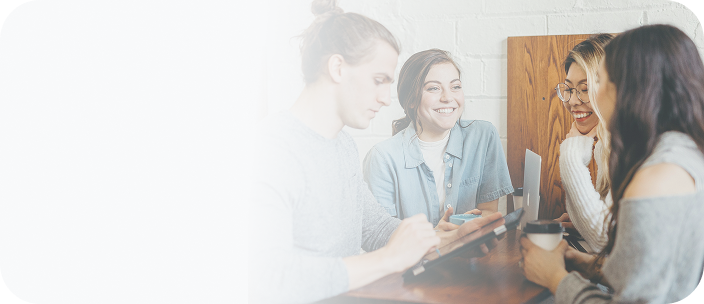
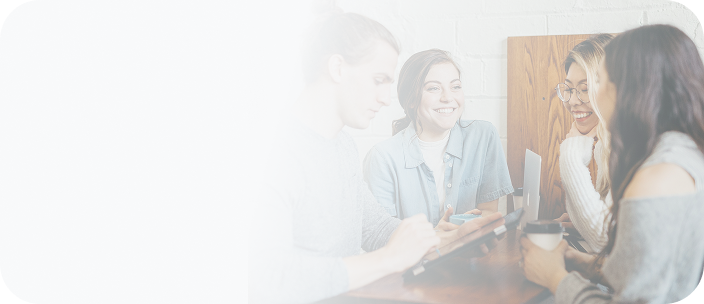
add some animation

Changed region(s): [[0.4375, 0.0, 1.0, 1.0], [0.5, 0.7697, 0.5625, 0.8289]]

diff --git a/lib/src/features/views/pages/home_page.dart b/lib/src/features/views/pages/home_page.dart
@@ -1,6 +1,7 @@
 import 'package:auto_size_text/auto_size_text.dart';
 import 'package:cached_network_image/cached_network_image.dart';
 import 'package:flutter/material.dart';
+import 'package:flutter_animate/flutter_animate.dart';
 import 'package:flutter_dotenv/flutter_dotenv.dart';
 import 'package:get/get.dart';
 import 'package:humic_internify/src/features/viewmodels/bottombar_controller.dart';
@@ -9,6 +10,7 @@ import 'package:humic_internify/src/features/views/pages/feedback_page.dart';
 import 'package:humic_internify/src/shared/components/humic_loading.dart';
 import 'package:humic_internify/src/shared/styles/custom_color.dart';
 import 'package:humic_internify/src/shared/widgets/humic_refresher.dart';
+import 'package:shimmer_animation/shimmer_animation.dart';
 
 class HomePage extends StatelessWidget {
   const HomePage({super.key});
@@ -25,9 +27,19 @@ class HomePage extends StatelessWidget {
             () => Column(
               mainAxisAlignment: MainAxisAlignment.start,
               children: [
+                const SizedBox(height: 10),
+
                 Stack(
                   children: [
-                    Image.asset("assets/images/life-at-humic.png"),
+                    Shimmer(
+                      duration: const Duration(seconds: 4),
+                      interval: Duration.zero,
+                      color: Colors.white,
+                      colorOpacity: 0.5,
+                      enabled: true,
+                      direction: const ShimmerDirection.fromLTRB(),
+                      child: Image.asset("assets/images/life-at-humic.png"),
+                    ),
                     Positioned.fill(
                       child: Container(
                         margin: const EdgeInsets.only(right: 50),
@@ -62,11 +74,30 @@ class HomePage extends StatelessWidget {
                     ),
                   ],
                 ),
-                const SizedBox(height: 20),
+                const SizedBox(height: 30),
                 Row(
                   mainAxisAlignment: MainAxisAlignment.spaceBetween,
                   children: [
-                    Image.asset("assets/images/mereka-humic.png", width: 120),
+                    Image.asset(
+                          "assets/images/internify-dev.png",
+                          width: MediaQuery.of(context).size.width / 2 - 50,
+                        )
+                        .animate(
+                          onPlay:
+                              (controller) => controller.repeat(reverse: true),
+                        )
+                        .moveY(
+                          begin: -1,
+                          end: 2,
+                          duration: 4000.ms,
+                          curve: Curves.easeInOut,
+                        )
+                        .rotate(
+                          begin: -0.002,
+                          end: 0.005,
+                          duration: 4000.ms,
+                          curve: Curves.easeInOut,
+                        ),
                     const SizedBox(width: 15),
                     const Expanded(
                       child: Column(
@@ -131,37 +162,44 @@ class HomePage extends StatelessWidget {
                       for (var group in posisitionController.groupedUniqueJobs)
                         Row(
                           mainAxisAlignment: MainAxisAlignment.center,
-                          children: List.generate(
-                            posisitionController.maxPerRow,
-                            (index) {
-                              if (index < group.length) {
-                                final itemIndex = group[index];
-                                final item =
-                                    posisitionController.data[itemIndex];
+                          children: List.generate(posisitionController.maxPerRow, (
+                            index,
+                          ) {
+                            if (index < group.length) {
+                              final itemIndex = group[index];
+                              final item = posisitionController.data[itemIndex];
 
-                                return Expanded(
-                                  child: GestureDetector(
-                                    onTap: () {
-                                      posisitionController
-                                          .clickToFilterPosition(item.jobTitle);
-                                      bottombarController.currentIndex.value =
-                                          1;
-                                      bottombarController.fetchIcon(1);
-                                    },
-                                    child: Container(
-                                      clipBehavior: Clip.antiAlias,
-                                      margin: const EdgeInsets.symmetric(
-                                        horizontal: 15,
-                                        vertical: 15,
-                                      ),
-                                      height: 150,
-                                      decoration: BoxDecoration(
-                                        borderRadius: BorderRadius.circular(15),
-                                      ),
-                                      child: Stack(
-                                        fit: StackFit.expand,
-                                        children: [
-                                          CachedNetworkImage(
+                              return Expanded(
+                                child: GestureDetector(
+                                  onTap: () {
+                                    posisitionController.clickToFilterPosition(
+                                      item.jobTitle,
+                                    );
+                                    bottombarController.currentIndex.value = 1;
+                                    bottombarController.fetchIcon(1);
+                                  },
+                                  child: Container(
+                                    clipBehavior: Clip.antiAlias,
+                                    margin: const EdgeInsets.symmetric(
+                                      horizontal: 15,
+                                      vertical: 15,
+                                    ),
+                                    height: 150,
+                                    decoration: BoxDecoration(
+                                      borderRadius: BorderRadius.circular(15),
+                                    ),
+                                    child: Stack(
+                                      fit: StackFit.expand,
+                                      children: [
+                                        Shimmer(
+                                          duration: const Duration(seconds: 4),
+                                          interval: Duration.zero,
+                                          color: Colors.white,
+                                          colorOpacity: 0.6,
+                                          enabled: true,
+                                          direction:
+                                              const ShimmerDirection.fromLTRB(),
+                                          child: CachedNetworkImage(
                                             imageUrl:
                                                 '${dotenv.env['API_BASE_URL']}${item.image}',
                                             fit: BoxFit.cover,
@@ -180,47 +218,47 @@ class HomePage extends StatelessWidget {
                                                   child: const HumicLoading(),
                                                 ),
                                           ),
-                                          Container(
-                                            padding: const EdgeInsets.only(
-                                              top: 10,
-                                              bottom: 10,
-                                              left: 10,
-                                              right: 20,
-                                            ),
-                                            alignment: Alignment.bottomLeft,
-                                            decoration: BoxDecoration(
-                                              gradient: LinearGradient(
-                                                colors: [
-                                                  Colors.black.withAlpha(200),
-                                                  Colors.transparent,
-                                                ],
-                                                begin: Alignment.bottomCenter,
-                                                end: Alignment.topCenter,
-                                              ),
-                                            ),
-                                            child: AutoSizeText(
-                                              item.jobTitle,
-                                              style: const TextStyle(
-                                                fontSize: 12,
-                                                color: Colors.white,
-                                              ),
-                                              maxFontSize: 12,
-                                              minFontSize: 3,
-                                              maxLines: 2,
+                                        ),
+                                        Container(
+                                          padding: const EdgeInsets.only(
+                                            top: 10,
+                                            bottom: 10,
+                                            left: 10,
+                                            right: 20,
+                                          ),
+                                          alignment: Alignment.bottomLeft,
+                                          decoration: BoxDecoration(
+                                            gradient: LinearGradient(
+                                              colors: [
+                                                Colors.black.withAlpha(200),
+                                                Colors.transparent,
+                                              ],
+                                              begin: Alignment.bottomCenter,
+                                              end: Alignment.topCenter,
                                             ),
                                           ),
-                                        ],
-                                      ),
+                                          child: AutoSizeText(
+                                            item.jobTitle,
+                                            style: const TextStyle(
+                                              fontSize: 12,
+                                              color: Colors.white,
+                                            ),
+                                            maxFontSize: 12,
+                                            minFontSize: 3,
+                                            maxLines: 2,
+                                          ),
+                                        ),
+                                      ],
                                     ),
                                   ),
-                                );
-                              } else {
-                                return const Expanded(
-                                  child: SizedBox(height: 130),
-                                );
-                              }
-                            },
-                          ),
+                                ),
+                              );
+                            } else {
+                              return const Expanded(
+                                child: SizedBox(height: 130),
+                              );
+                            }
+                          }),
                         ),
                     ],
                   )

diff --git a/lib/main.dart b/lib/main.dart
@@ -19,8 +19,9 @@ import 'package:humic_internify/src/routes/routes_page.dart';
 // }
 
 void main() async {
-  await dotenv.load(fileName: "assets/.env");
   WidgetsFlutterBinding.ensureInitialized();
+  await dotenv.load(fileName: "assets/.env");
+
   // HttpOverrides.global = MyHttpOverrides();
   initDependencies();
   // await GetStorage.init();
@@ -29,6 +30,7 @@ void main() async {
     DeviceOrientation.portraitUp,
     DeviceOrientation.portraitDown,
   ]);
+
   runApp(const MyApp());
 }
 

diff --git a/lib/src/features/views/components/bottom_navbar.dart b/lib/src/features/views/components/bottom_navbar.dart
@@ -67,6 +67,7 @@ class BottomNavbar extends StatelessWidget {
                                 bottomBar[index].icon,
                                 height: 20,
                                 width: 20,
+                                gaplessPlayback: true,
                               ),
                               const SizedBox(height: 3),
                               Text(

diff --git a/lib/src/features/views/components/our_developer_card.dart b/lib/src/features/views/components/our_developer_card.dart
@@ -66,6 +66,7 @@ class OurDeveloperCard extends StatelessWidget {
                       child: Image.asset(
                         dev.devModel[index].image,
                         fit: BoxFit.cover,
+                        gaplessPlayback: true,
                       ),
                     ),
                     AutoSizeText(
